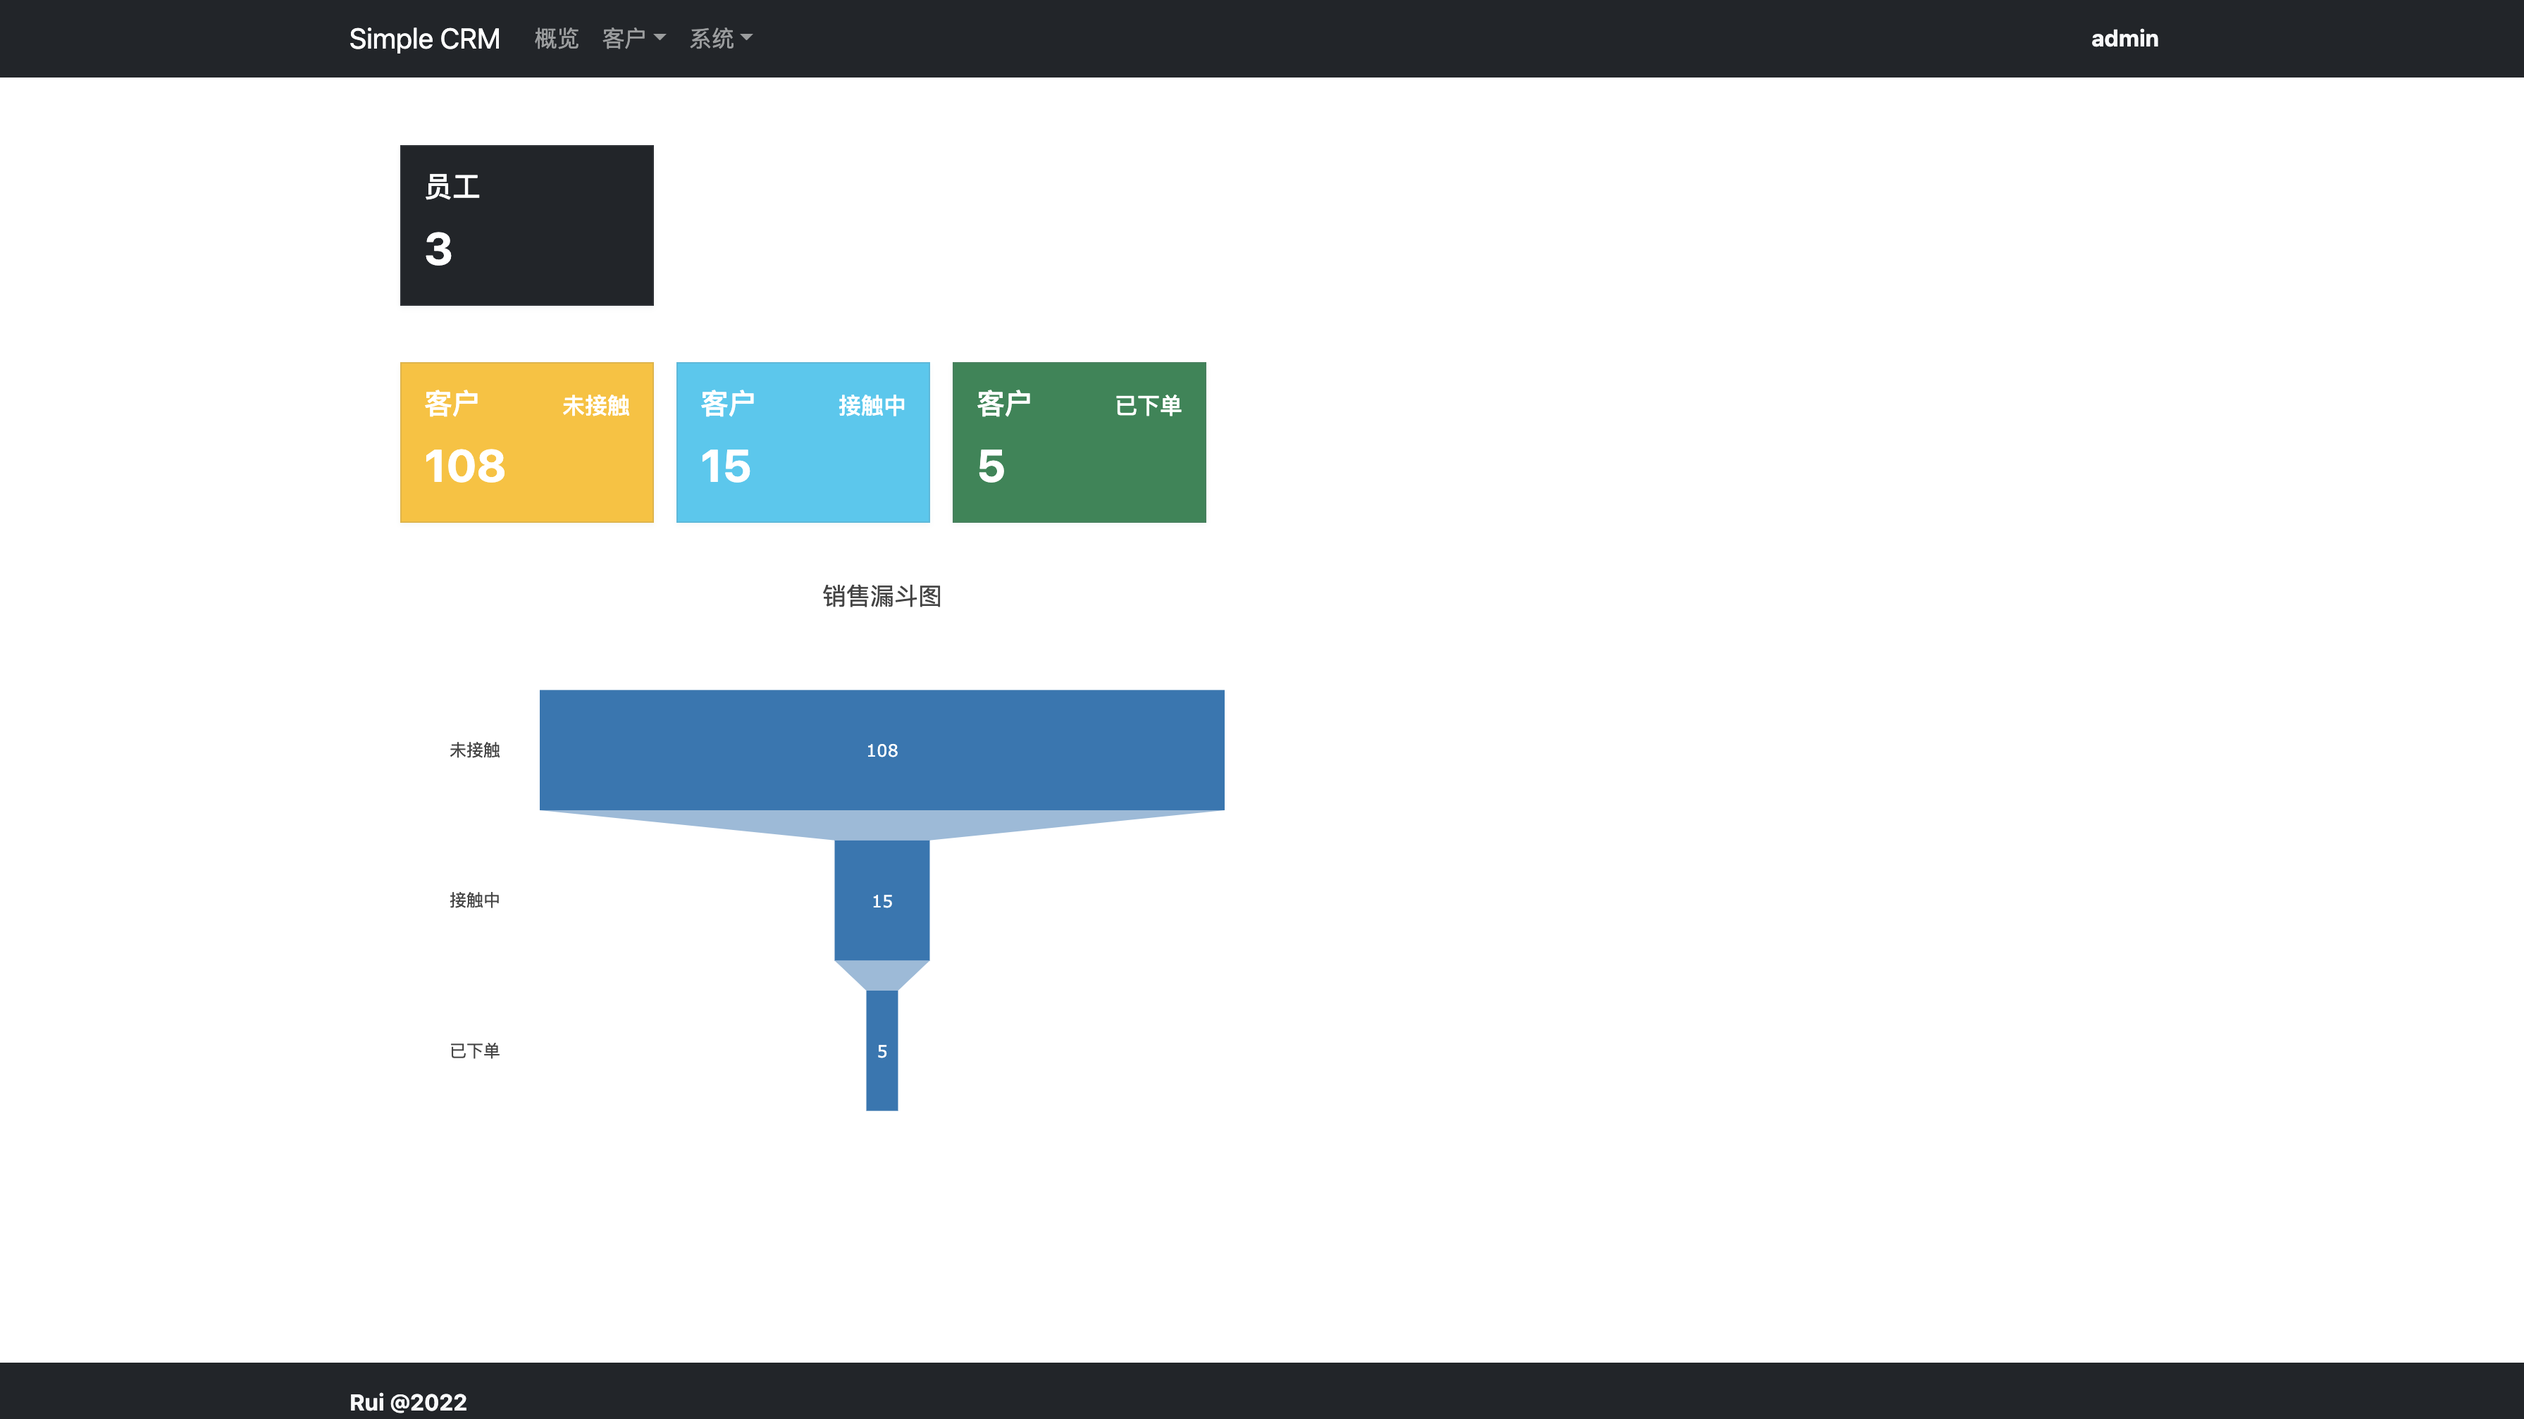
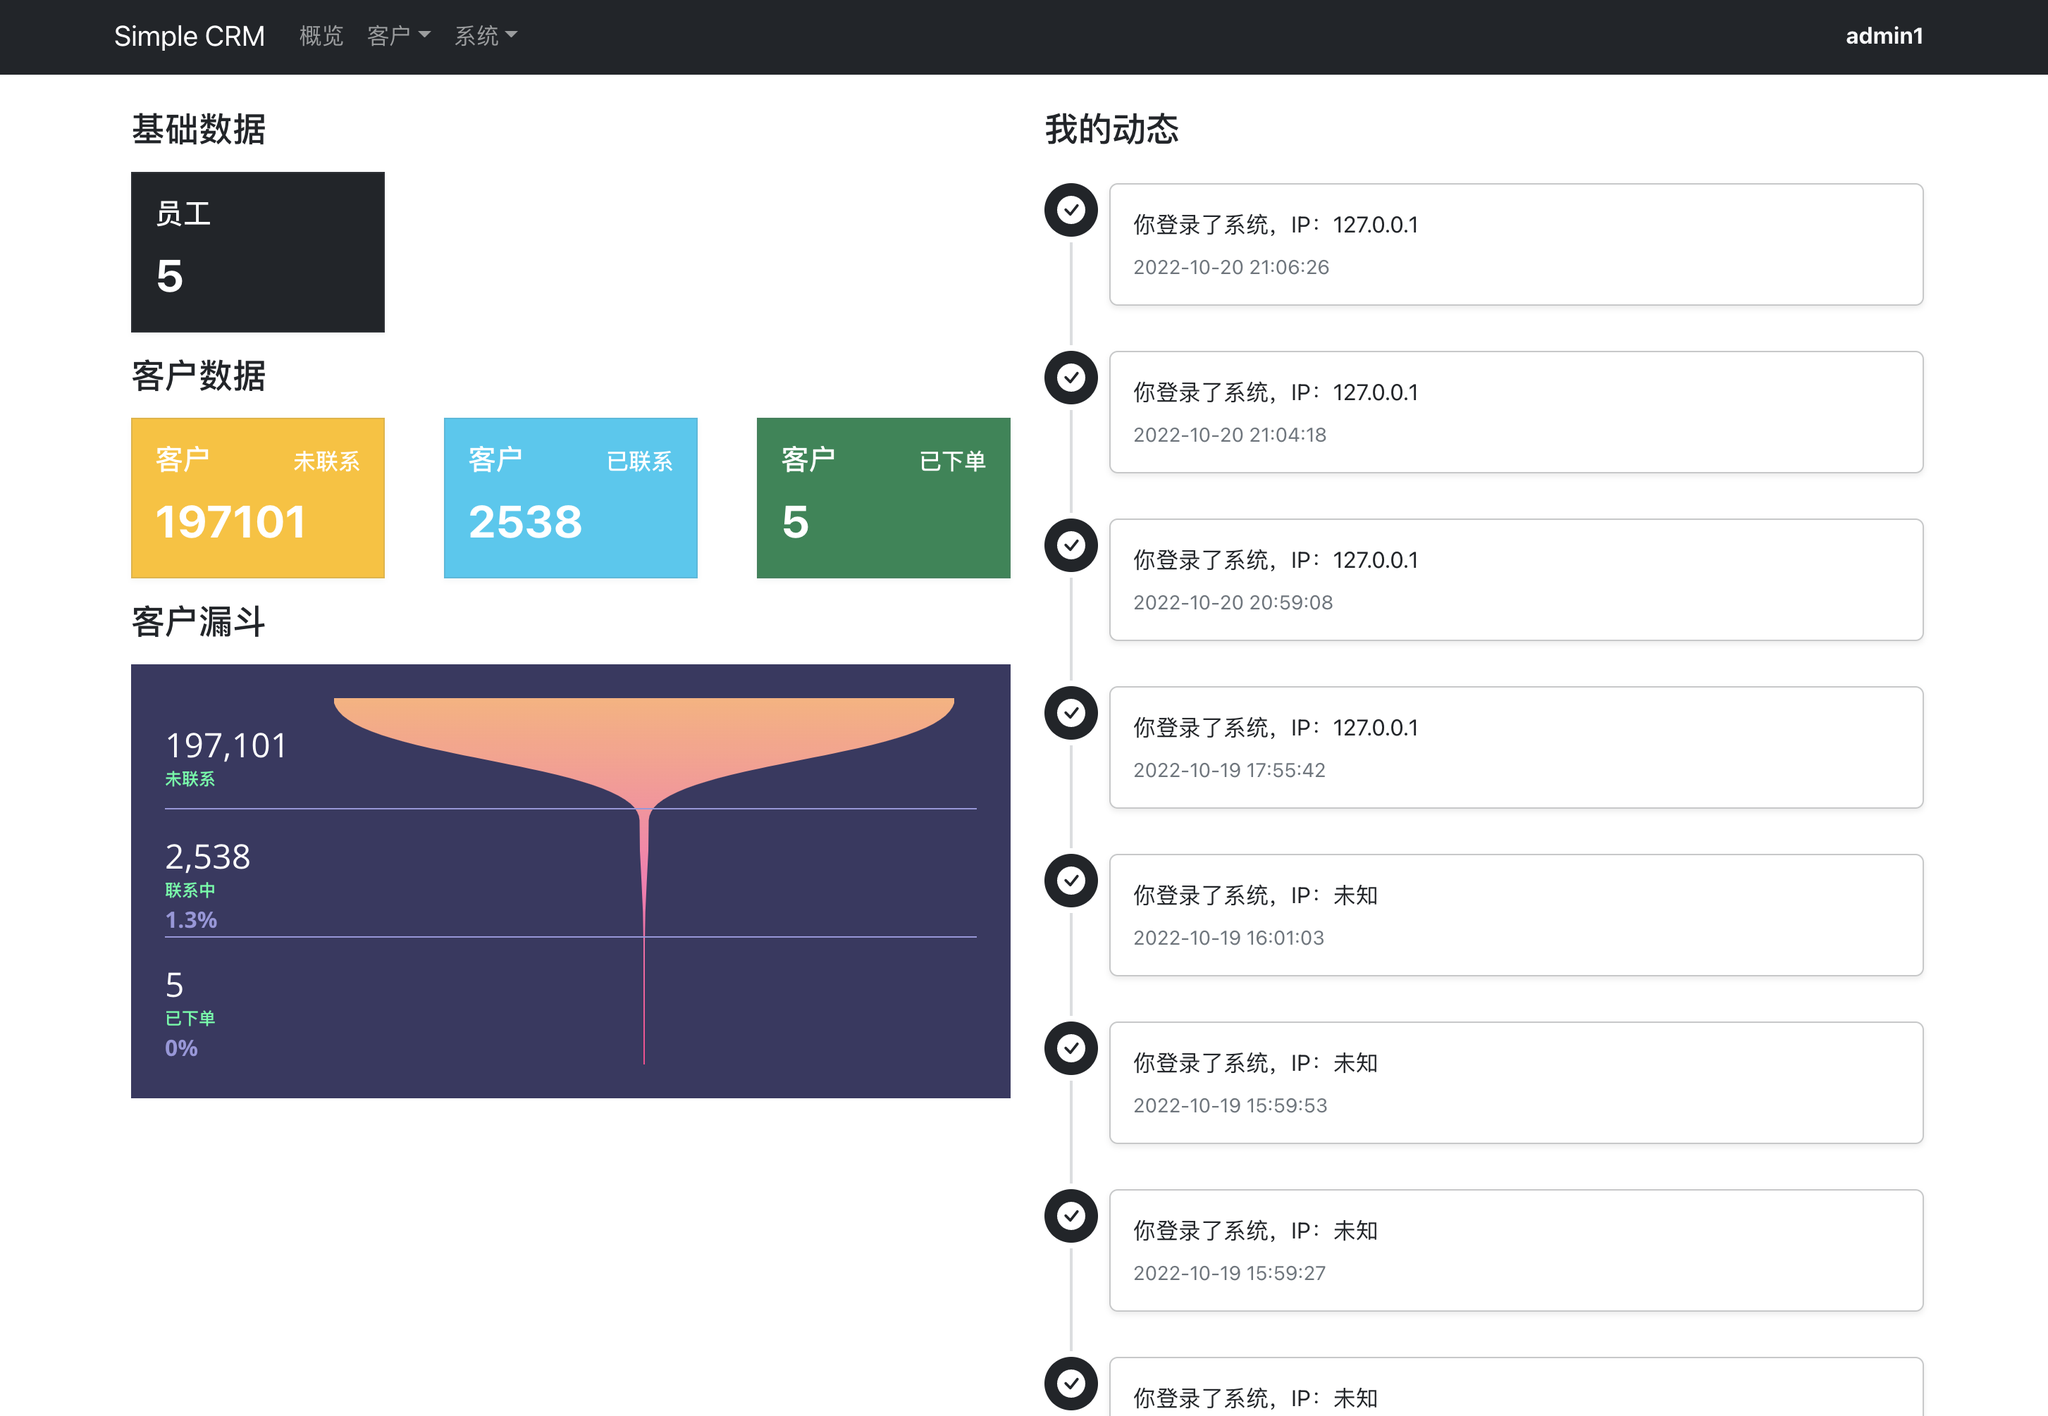
add activities

diff --git a/views/index.html b/views/index.html
@@ -1,54 +1,134 @@
 {% extends 'layouts/default.html' %}
 {% set title = 'Simple CRM' %}
+{% block style %}
+<link rel="stylesheet" type="text/css" href="https://unpkg.com/funnel-graph-js@1.3.9/dist/css/main.min.css">
+<link rel="stylesheet" type="text/css" href="https://unpkg.com/funnel-graph-js@1.3.9/dist/css/theme.min.css">
+{% endblock style %}
 {% block container %}
 <div class="container-xl">
-    <div class="d-flex m-2 p-2 flex-wrap">
-        <div class="statistic bg-dark text-bg-dark">
-            <div class="d-flex justify-content-between align-items-baseline">
-                <div class="h5">员工</div>
-                <div class="h6"></div>
+    <div class="row">
+        <div class="col-lg-6 d-flex flex-column">
+            <div class="h4 mb-3">基础数据</div>
+            <div class="d-flex flex-wrap mb-3">
+                <div class="statistic bg-dark text-bg-dark ms-0">
+                    <div class="d-flex justify-content-between align-items-baseline">
+                        <div class="h5">员工</div>
+                        <div class="h6"></div>
+                    </div>
+                    <div class="fw-bold fs-2">{{data.count.user}}</div>
+                </div>
             </div>
-            <div class="fw-bold fs-2">{{data.count.user}}</div>
+            <div class="h4 mb-3">客户数据</div>
+            <div class="d-flex flex-wrap justify-content-between mb-3">
+                <div class="statistic bg-warning text-bg-dark ms-0">
+                    <div class="d-flex justify-content-between align-items-baseline">
+                        <div class="h5">客户</div>
+                        <div class="h6">未联系</div>
+                    </div>
+                    <div class="fw-bold fs-2">{{data.count.unLink}}</div>
+                </div>
+                <div class="statistic bg-info text-bg-dark">
+                    <div class="d-flex justify-content-between align-items-baseline">
+                        <div class="h5">客户</div>
+                        <div class="h6">已联系</div>
+                    </div>
+                    <div class="fw-bold fs-2">{{data.count.linking}}</div>
+                </div>
+                <div class="statistic bg-success text-bg-success">
+                    <div class="d-flex justify-content-between align-items-baseline">
+                        <div class="h5">客户</div>
+                        <div class="h6">已下单</div>
+                    </div>
+                    <div class="fw-bold fs-2">{{data.count.sold}}</div>
+                </div>
+            </div>
+            <div class="h4 mb-3">客户漏斗</div>
+            <div class="d-flex flex-wrap">
+                <div class="d-flex w-100" style="background-color: #393862;">
+                    <div class="funnel m-4 w-100"></div>
+                </div>
+            </div>
+        </div>
+        <div class="col-lg-6 d-flex flex-wrap flex-column">
+            <div class="d-flex flex-column">
+                <div class="h4 mb-3">我的动态</div>
+                <div id="activities" class="mt-2"></div>
+            </div>
         </div>
     </div>
-    <div class="d-flex m-2 p-2 flex-wrap">
-        <div class="statistic bg-warning text-bg-dark">
-            <div class="d-flex justify-content-between align-items-baseline">
-                <div class="h5">客户</div>
-                <div class="h6">未接触</div>
-            </div>
-            <div class="fw-bold fs-2">{{data.count.unLink}}</div>
-        </div>
-        <div class="statistic bg-info text-bg-dark">
-            <div class="d-flex justify-content-between align-items-baseline">
-                <div class="h5">客户</div>
-                <div class="h6">接触中</div>
-            </div>
-            <div class="fw-bold fs-2">{{data.count.linking}}</div>
-        </div>
-        <div class="statistic bg-success text-bg-success">
-            <div class="d-flex justify-content-between align-items-baseline">
-                <div class="h5">客户</div>
-                <div class="h6">已下单</div>
-            </div>
-            <div class="fw-bold fs-2">{{data.count.sold}}</div>
-        </div>
-        <div id="funnel"></div>
-    </div>
+
 </div>
 {% endblock container %}
 {% block script %}
+<script src="https://unpkg.com/dayjs@1.8.21/dayjs.min.js"></script>
+<script src="https://unpkg.com/funnel-graph-js@1.3.9/dist/js/funnel-graph.min.js"></script>
 <script src="https://cdn.bootcdn.net/ajax/libs/plotly.js/2.15.0/plotly.min.js"></script>
 <script>
-    var gd = document.getElementById('funnel');
-    var data = [{
-        type: 'funnel',
-        y: ["未接触", "接触中", "已下单"],
-        x: ['{{data.count.unLink}}', '{{data.count.linking}}', '{{data.count.sold}}'],
-        hoverinfo: 'percent total+x',
-    }];
-    var layout = { title: '销售漏斗图', showlegend: false, height: 500, };
-    Plotly.newPlot('funnel', data, layout, { staticPlot: true });
-
+    const app = {
+        async renderActivities() {
+            $.ajax({
+                type: 'get',
+                url: '/activities/my'
+            }).done(function (result) {
+                const { data } = result;
+                const dom = document.getElementById('activities');
+                while (dom.firstChild) dom.removeChild(dom.firstChild);
+                let html = '';
+                for (let i = 0; i < data.length; i++) {
+                    const item = data[i];
+                    const extra = JSON.parse(item.extra || '{}');
+                    let one = '';
+                    switch (item.action) {
+                        case 'user.login': one = `
+                                <div class="paragraph mb-2">你登录了系统，IP：${extra.ip || '未知'}</div>
+                                <div class="fs-small text-muted">${dayjs(item.createdAt).format("YYYY-MM-DD HH:mm:ss")}</div>
+                            `;
+                            break;
+                        default: break;
+                    }
+                    html += `
+                        <div class="d-flex">
+                            <div class="d-flex flex-column me-2">
+                                <div class="text-bg-dark rounded-circle d-flex align-items-center justify-content-center activity-icon text-center">
+                                    <svg xmlns="http://www.w3.org/2000/svg" width="20" height="20" fill="currentColor" class="bi bi-check-circle-fill" viewBox="0 0 16 16">
+                                    <path d="M16 8A8 8 0 1 1 0 8a8 8 0 0 1 16 0zm-3.97-3.03a.75.75 0 0 0-1.08.022L7.477 9.417 5.384 7.323a.75.75 0 0 0-1.06 1.06L6.97 11.03a.75.75 0 0 0 1.079-.02l3.992-4.99a.75.75 0 0 0-.01-1.05z"/>
+                                    </svg>
+                                </div>
+                                <div class="bg-secondary align-self-center my-1 opacity-25 flex-grow-1" style="width:2px;"></div>
+                            </div>
+                            <div class="d-flex flex-column flex-grow-1 mb-4">
+                                <div class="p-3 border border-dark border-opacity-25 shadow-sm rounded mb-2">
+                                    <div class="d-flex flex-column">
+                                        ${one}
+                                    </div>
+                                </div>
+                            </div>
+                        </div>
+                    `;
+                }
+                dom.innerHTML = html;
+            });
+        },
+        async renderFunnel() {
+            var graph = new FunnelGraph({
+                container: '.funnel',
+                subLabelValue: 'raw',
+                gradientDirection: 'vertical',
+                height: 260,
+                data: {
+                    labels: ['未联系', '联系中', '已下单'],
+                    colors: ['#FFB178', '#FF78B1', '#FF3C8E'],
+                    values: ['{{data.count.unLink}}', '{{data.count.linking}}', '{{data.count.sold}}']
+                },
+                displayPercent: true,
+                direction: 'vertical'
+            });
+            graph.draw();
+        }
+    };
+    $(document).ready(async function () {
+        app.renderFunnel();
+        app.renderActivities();
+    });
 </script>
 {% endblock script %}

diff --git a/core/lib/events.js b/core/lib/events.js
@@ -14,17 +14,45 @@ const events = {
         events.fastify = fastify;
         // register all event handlers
         fastify.events.addHandler(this.names.USER_LOGIN, this.handleUserLogin);
+        fastify.events.addHandler(this.names.USER_LOGOUT, this.handleUserLogout);
+    },
+    async handleUserCreate(data) {
+        const { user, target } = data.payload;
+        const activity = {
+            action: events.names.USER_CREATE,
+            userId: user.id,
+            targetId: target.id,
+            extra: JSON.stringify({ user: { id: user.id, name: user.name }, target: { id: target.id, name: target.name } }),
+        };
+        await events.fastify.db.activity.create({ data: activity });
+    },
+    async handleUserRegister(data) {
+        const user = data.payload;
+        const activity = {
+            action: events.names.USER_REGISTER,
+            userId: user.id,
+            extra: JSON.stringify({ id: user.id, name: user.name }),
+        };
+        await events.fastify.db.activity.create({ data: activity });
     },
     async handleUserLogin(data) {
         const user = data.payload;
         const activity = {
             action: events.names.USER_LOGIN,
-            template: '{{user.name}} 登录了系统',
             userId: user.id,
-            data: JSON.stringify({ id: user.id, name: user.name, time: Date.now() }),
+            extra: JSON.stringify({ id: user.id, name: user.name, ip: user.lastLoginIp }),
         };
         await events.fastify.db.activity.create({ data: activity });
     },
+    async handleUserLogout(data) {
+        const user = data.payload;
+        const activity = {
+            action: events.names.USER_LOGOUT,
+            userId: user.id,
+            extra: JSON.stringify({ id: user.id, name: user.name }),
+        };
+        await events.fastify.db.activity.create({ data: activity });
+    }
 };
 
 export default events;

diff --git a/views/customers/detail.html b/views/customers/detail.html
@@ -79,16 +79,25 @@
         </div>
     </div>
     <div class="col-md-8">
-        <div class="d-flex align-items-center justify-content-between mb-3">
-            <div class="fs-3 d-flex">联络历史</div>
-            <div class="d-flex align-content-center">
-                <button class="btn btn-dark" onclick="app.openLinkForm()">新增</button>
+        <div class="d-flex justify-content-between flex-wrap mb-3">
+            <ul class="nav nav-tabs">
+                <li class="nav-item">
+                    <a class="nav-link active" aria-current="page" href="#">联系</a>
+                </li>
+                <li class="nav-item">
+                    <a class="nav-link" href="#">动态</a>
+                </li>
+            </ul>
+            <div class="mt-2">
+                <button class="btn btn-dark btn-sm" onclick="app.openLinkForm()">新增</button>
             </div>
         </div>
         <div id="spinner" class="text-center" style="display: none;">
             <div class="spinner-border" role="status"></div>
         </div>
-        <div id="linkList" class="activity-container"></div>
+        <div class="p-1">
+            <div id="linkList" class="activity-container"></div>
+        </div>
     </div>
 </div>
 {% endblock container %}

diff --git a/core/routes/home.js b/core/routes/home.js
@@ -24,10 +24,13 @@ const home = async function (fastify, opts) {
         if (!user) return reply.view('login.html', { hasError: true, name, message });
         if (user.isLocked) return reply.view('login.html', { hasError: true, name, message: '您已经被锁定，更多信息请联系系统管理员或者您的上级' });
 
-        const isPasswordMatched = await this.bcrypt.compare(password, user.password);
+        const isPasswordMatched = await fastify.bcrypt.compare(password, user.password);
         if (!isPasswordMatched) return reply.view('login.html', { hasError: true, name, message });
+        await fastify.db.user.update({ data: { lastLoginIp: req.ip }, where: { id: user.id } });
 
+        user.lastLoginIp = req.ip;
         fastify.events.emit(events.names.USER_LOGIN, { payload: user });
+
         req.session.authenticated = true;
         req.session.user = user;
         return reply.redirect('/');

diff --git a/core/index.js b/core/index.js
@@ -16,6 +16,7 @@ import system from './routes/system/index.js';
 import links from './routes/links.js';
 import users from './routes/users.js';
 import tags from './routes/tags.js';
+import activities from './routes/activities.js';
 
 const scService = async function (fastify, opts) {
     await fastify.register(fastifyView, {
@@ -68,6 +69,7 @@ const scService = async function (fastify, opts) {
     await fastify.register(links, { prefix: '/links' });
     await fastify.register(users, { prefix: '/users' });
     await fastify.register(tags, { prefix: '/tags' });
+    await fastify.register(activities, { prefix: '/activities' });
     await fastify.register(system, { prefix: '/system' });
 };
 

diff --git a/core/routes/activities.js b/core/routes/activities.js
@@ -1,0 +1,18 @@
+import constants from '../lib/constants.js';
+
+const activities = async function (fastify, opts) {
+    fastify.get('/my', async (req, reply) => {
+        let { skip, limit } = req.query;
+        skip = Number(skip) || constants.DEFAULT_PAGE_SKIP;
+        limit = Number(limit) || constants.DEFAULT_PAGE_SIZE;
+        const data = await fastify.db.activity.findMany({
+            skip,
+            take: limit,
+            where: { userId: req.session.user.id },
+            orderBy: [{ createdAt: 'desc' }]
+        });
+        return reply.code(200).send({ data });
+    });
+};
+
+export default activities;

diff --git a/views/system/dataset.html b/views/system/dataset.html
@@ -28,7 +28,7 @@
                 </div>
             </div>
             <div class="col-auto">
-                <button type="button" class="btn btn-dark mb-3" onclick="app.onClickCollect()">收集</button>
+                <button id="collectBtn" type="button" class="btn btn-dark mb-3" onclick="app.onClickCollect()">收集</button>
             </div>
         </div>
     </div>

diff --git a/public/css/main.css b/public/css/main.css
@@ -73,7 +73,6 @@
 
 .statistic {
     padding         : 16px;
-    margin          : 8px;
     min-width       : 180px;
     background-color: #F6F6F6;
     box-shadow      : rgb(30 41 59 / 4%) 0 2px 4px 0;
